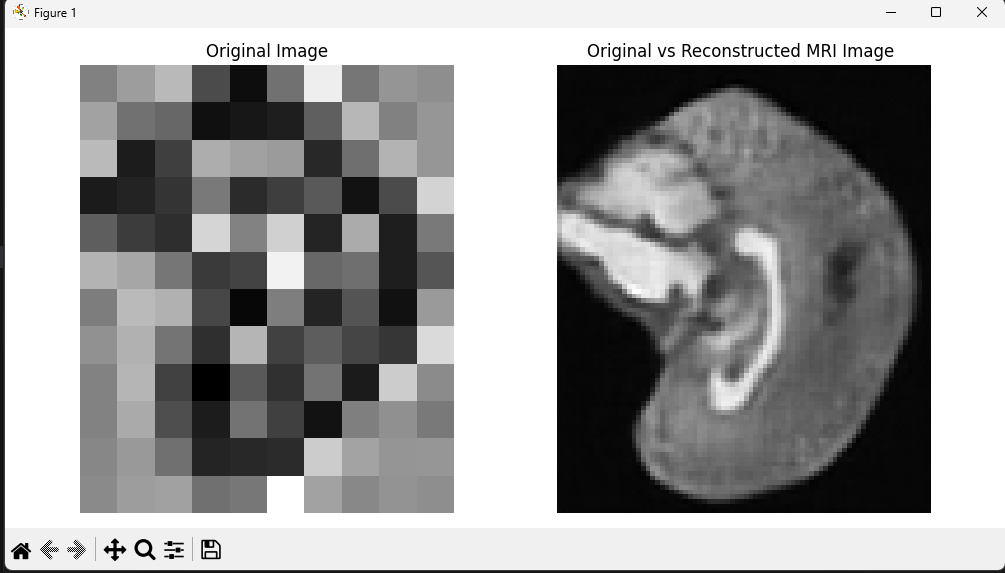
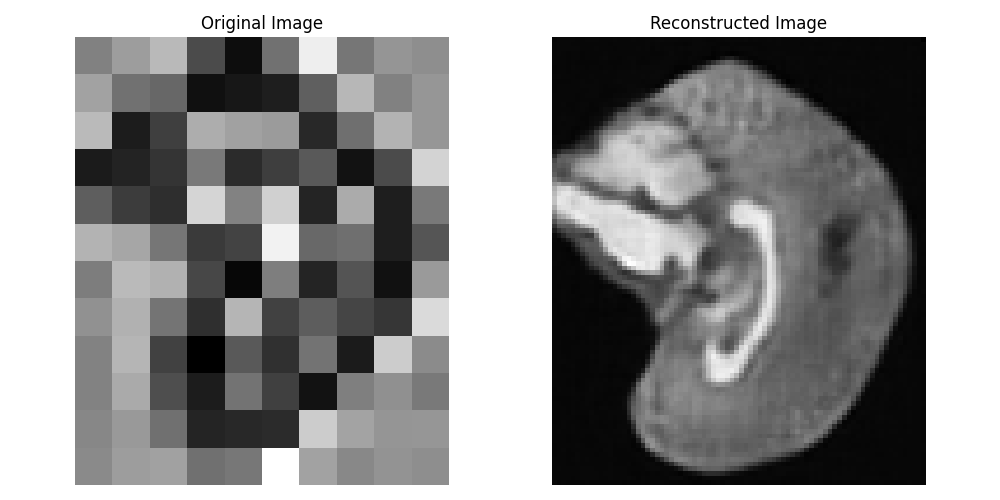
updated script for displaying reconstruction

diff --git a/brain2vec/display_reconstruction.py b/brain2vec/display_reconstruction.py
@@ -37,7 +37,7 @@ def display_original_and_reconstruction(original_fpath, reconstructed_fpath, n=1
 
     plt.tight_layout()
     # plt.title("Original vs Reconstructed Image ", plt.gcf())
-    plt.title("Original vs Reconstructed MRI Image ")
+    # plt.title("Original vs Reconstructed MRI Image ")
     plt.show()
 
 if __name__ == "__main__":
